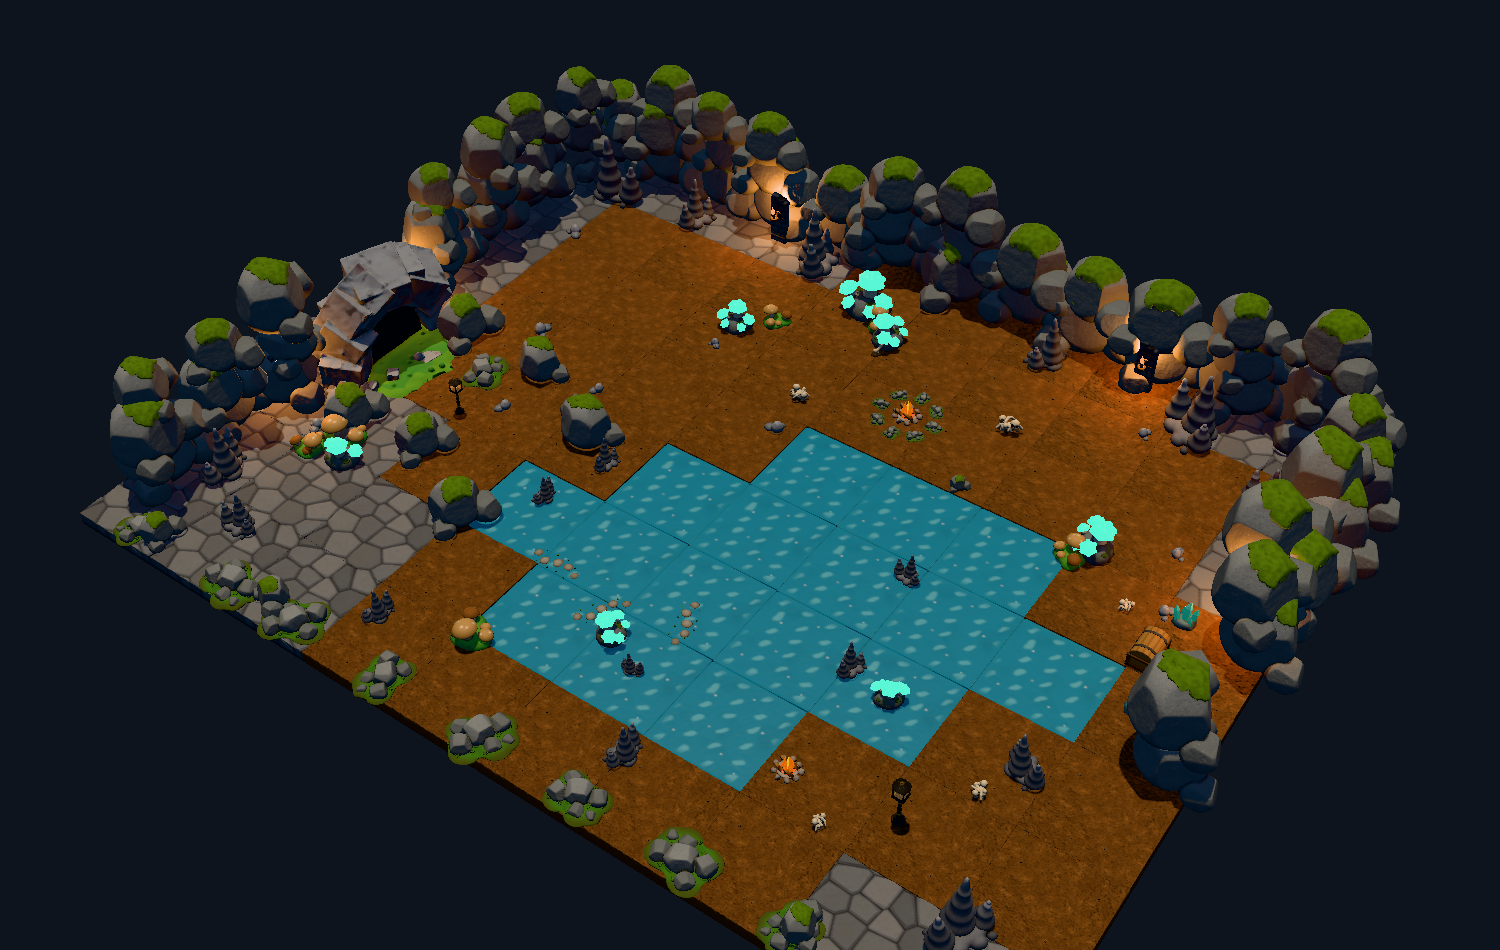
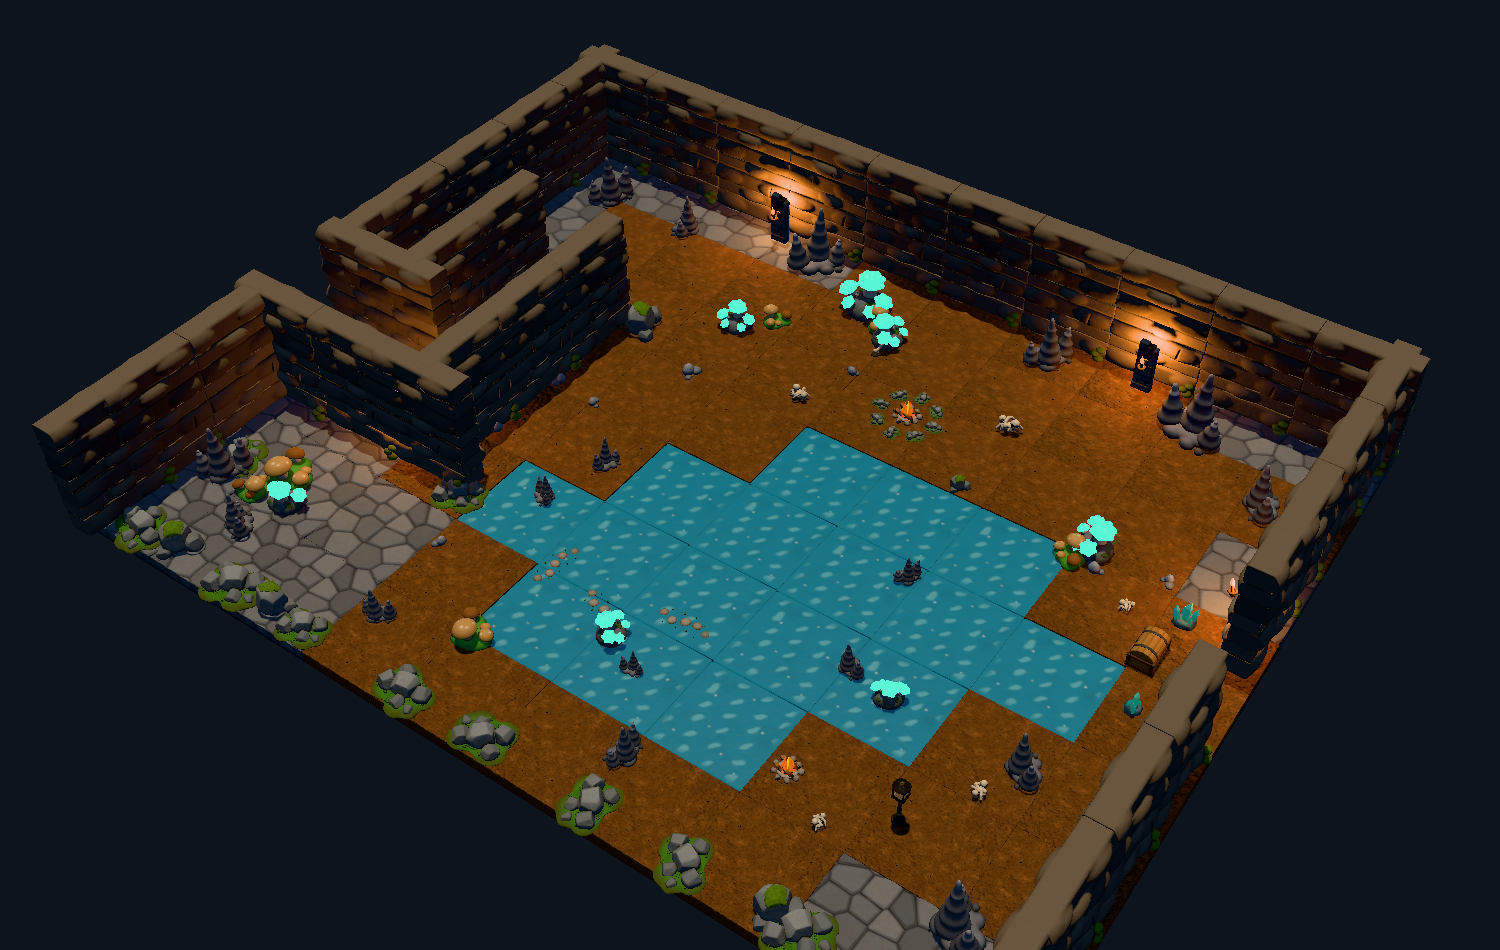
feat(maps): cave map at 7.0 with the new rock-wall piece

diff --git a/scenes/maps/cave.ts b/scenes/maps/cave.ts
@@ -82,89 +82,60 @@ export function places(): Place[] {
   { asset: 'dirt-ground', at: [5, 0, 7] },
   { asset: 'stone-ground', at: [7, 0, 7] },
   { asset: 'stone-ground', at: [9, 0, 7] },
-  { asset: 'boulder', at: [-9.03, 0, -7.66], yaw: 34, scale: 1.62 },
-  { asset: 'boulder', at: [-9.06, 0.85, -7.56], yaw: -36, scale: 1.37 },
-  { asset: 'boulder', at: [-7.41, 0, -7.69], yaw: -4, scale: 1.99 },
-  { asset: 'boulder', at: [-7.56, 0.85, -7.39], yaw: 22, scale: 1.62 },
-  { asset: 'boulder', at: [-7.46, 1.7, -7.56], yaw: -1, scale: 1.44 },
-  { asset: 'boulder', at: [-5.9, 0, -7.57], yaw: -11, scale: 1.55 },
-  { asset: 'boulder', at: [-5.81, 0.85, -7.65], yaw: -4, scale: 1.44 },
-  { asset: 'boulder', at: [-6.15, 1.7, -7.45], yaw: 22, scale: 1.25 },
-  { asset: 'boulder', at: [-4.36, 0, -7.53], yaw: -19, scale: 1.54 },
-  { asset: 'boulder', at: [-4.46, 0.85, -7.57], yaw: 1, scale: 1.65 },
-  { asset: 'boulder', at: [-4.54, 1.7, -7.35], yaw: 10, scale: 1.35 },
-  { asset: 'boulder', at: [-2.6, 0, -7.71], yaw: -26, scale: 1.69 },
-  { asset: 'boulder', at: [-2.63, 0.85, -7.46], yaw: -1, scale: 1.48 },
-  { asset: 'boulder', at: [-1.33, 0, -7.9], yaw: 15, scale: 1.72 },
-  { asset: 'boulder', at: [-1.34, 0.85, -7.48], yaw: 19, scale: 1.73 },
-  { asset: 'boulder', at: [-1.24, 1.7, -7.44], yaw: 26, scale: 1.39 },
-  { asset: 'boulder', at: [0.39, 0, -7.59], yaw: 37, scale: 1.75 },
-  { asset: 'boulder', at: [0.55, 0.85, -7.62], yaw: -18, scale: 1.51 },
-  { asset: 'boulder', at: [0.28, 1.7, -7.68], yaw: -16, scale: 1.56 },
-  { asset: 'boulder', at: [2.1, 0, -7.82], yaw: 1, scale: 1.91 },
-  { asset: 'boulder', at: [1.97, 0.85, -7.57], yaw: -12, scale: 1.73 },
-  { asset: 'boulder', at: [3.48, 0, -7.63], yaw: 16, scale: 1.94 },
-  { asset: 'boulder', at: [3.51, 0.85, -7.49], yaw: -13, scale: 1.57 },
-  { asset: 'boulder', at: [5.19, 0, -7.6], yaw: 29, scale: 1.69 },
-  { asset: 'boulder', at: [5.09, 0.85, -7.43], yaw: 7, scale: 1.74 },
-  { asset: 'boulder', at: [6.93, 0, -7.67], yaw: 28, scale: 1.87 },
-  { asset: 'boulder', at: [6.9, 0.85, -7.53], yaw: 40, scale: 1.38 },
-  { asset: 'boulder', at: [6.71, 1.7, -7.36], yaw: 25, scale: 1.3 },
-  { asset: 'boulder', at: [8.58, 0, -7.89], yaw: 31, scale: 1.99 },
-  { asset: 'boulder', at: [8.59, 0.85, -7.6], yaw: 34, scale: 1.47 },
-  { asset: 'boulder', at: [8.42, 1.7, -7.55], yaw: -25, scale: 1.52 },
-  { asset: 'boulder', at: [-9.8, 0, -6.75], yaw: 111, scale: 1.51 },
-  { asset: 'boulder', at: [-9.4, 0.85, -6.6], yaw: 129, scale: 1.39 },
-  { asset: 'boulder', at: [-9.33, 1.7, -6.6], yaw: 83, scale: 1.29 },
-  { asset: 'boulder', at: [-9.78, 0, -4.93], yaw: 69, scale: 1.77 },
-  { asset: 'boulder', at: [-9.48, 0.85, -4.9], yaw: 110, scale: 1.57 },
-  { asset: 'boulder', at: [-9.5, 1.7, -4.84], yaw: 57, scale: 1.42 },
-  { asset: 'boulder', at: [-9.74, 0, -3.26], yaw: 80, scale: 1.79 },
-  { asset: 'boulder', at: [-9.37, 0.85, -3.49], yaw: 77, scale: 1.67 },
-  { asset: 'boulder', at: [-9.43, 1.7, -3.59], yaw: 113, scale: 1.54 },
-  { asset: 'boulder', at: [-9.56, 0, -1.69], yaw: 93, scale: 1.78 },
-  { asset: 'boulder', at: [-9.47, 0.85, -1.62], yaw: 113, scale: 1.49 },
-  { asset: 'boulder', at: [-9.42, 1.7, -1.79], yaw: 55, scale: 1.21 },
-  { asset: 'boulder', at: [-9.44, 0, 2.97], yaw: 124, scale: 1.76 },
-  { asset: 'boulder', at: [-9.15, 0.85, 2.9], yaw: 84, scale: 1.35 },
-  { asset: 'boulder', at: [-9.45, 1.7, 2.85], yaw: 126, scale: 1.67 },
-  { asset: 'boulder', at: [-9.67, 0, 4.41], yaw: 93, scale: 1.57 },
-  { asset: 'boulder', at: [-9.28, 0.85, 4.77], yaw: 85, scale: 1.44 },
-  { asset: 'boulder', at: [-9.2, 1.7, 4.58], yaw: 51, scale: 1.23 },
-  { asset: 'boulder', at: [-9.5, 0, 6.12], yaw: 82, scale: 1.76 },
-  { asset: 'boulder', at: [-9.21, 0.85, 6.39], yaw: 100, scale: 1.63 },
-  { asset: 'boulder', at: [-9.55, 1.7, 6.08], yaw: 125, scale: 1.25 },
-  { asset: 'boulder', at: [9.72, 0, -6.52], yaw: 109, scale: 1.79 },
-  { asset: 'boulder', at: [9.41, 0.85, -6.71], yaw: 54, scale: 1.43 },
-  { asset: 'boulder', at: [9.62, 0, -5.05], yaw: 119, scale: 1.95 },
-  { asset: 'boulder', at: [9.38, 0.85, -5.2], yaw: 83, scale: 1.76 },
-  { asset: 'boulder', at: [9.76, 0, -3.29], yaw: 73, scale: 1.92 },
-  { asset: 'boulder', at: [9.15, 0.85, -3.21], yaw: 69, scale: 1.84 },
-  { asset: 'boulder', at: [9.75, 0, -1.83], yaw: 102, scale: 1.76 },
-  { asset: 'boulder', at: [9.49, 0.85, -1.81], yaw: 71, scale: 1.71 },
-  { asset: 'boulder', at: [9.55, 0, 1.36], yaw: 107, scale: 1.63 },
-  { asset: 'boulder', at: [9.31, 0.85, 1.25], yaw: 108, scale: 1.77 },
-  { asset: 'cave-mouth', at: [-8.6, 0, 1], yaw: 90, scale: 0.7 },
-  { asset: 'boulder', at: [-7.5, 0, -0.3], yaw: 75, scale: 1.1980484947329386 },
-  { asset: 'boulder', at: [-5.5, 0, -0.3], yaw: 145, scale: 1.052375058387406 },
-  { asset: 'boulder', at: [-3.5, 0, 0.7], yaw: 159, scale: 1.2289096700726077 },
-  { asset: 'boulder', at: [-7.5, 0, 3.1], yaw: 84, scale: 1.1254031813004985 },
-  { asset: 'boulder', at: [-5.8, 0, 2.9], yaw: 61, scale: 1.0288668071618303 },
-  { asset: 'boulder', at: [-3.9, 0, 3.9], yaw: 56, scale: 1.1338962153764442 },
-  { asset: 'rock-cluster', at: [-8.2, 0, 2.6], yaw: 30 },
-  { asset: 'rock-cluster', at: [-6.4, 0, 0.5], yaw: 120 },
-  { asset: 'rock-cluster', at: [-8.66, 0, 7.6], yaw: 250, scale: 0.9205809348262847 },
-  { asset: 'rock-cluster', at: [-6.2, 0, 7.6], yaw: 351, scale: 1.1121186759090051 },
-  { asset: 'rock-cluster', at: [-4.58, 0, 7.6], yaw: 219, scale: 1.159982987260446 },
-  { asset: 'rock-cluster', at: [-2.39, 0, 7.6], yaw: 283, scale: 1.007555209309794 },
-  { asset: 'rock-cluster', at: [-0.19, 0, 7.6], yaw: 55, scale: 1.1415613694116473 },
-  { asset: 'rock-cluster', at: [1.92, 0, 7.6], yaw: 6, scale: 1.0248554696096108 },
-  { asset: 'rock-cluster', at: [4.04, 0, 7.6], yaw: 176, scale: 1.151267913216725 },
-  { asset: 'rock-cluster', at: [6.09, 0, 7.6], yaw: 254, scale: 0.9233524861978367 },
-  { asset: 'rock-cluster', at: [8.34, 0, 7.6], yaw: 171, scale: 1.0795057970099151 },
-  { asset: 'boulder', at: [-8.18, 0, 7.5], yaw: 85, scale: 0.7 },
-  { asset: 'boulder', at: [-5.24, 0, 7.5], yaw: 327, scale: 0.7 },
-  { asset: 'boulder', at: [6.22, 0, 7.5], yaw: 105, scale: 0.7 },
+  { asset: 'rock-wall', at: [-9, 0, -7.55] },
+  { asset: 'rock-wall', at: [-7, 0, -7.55] },
+  { asset: 'rock-wall', at: [-5, 0, -7.55] },
+  { asset: 'rock-wall', at: [-3, 0, -7.55] },
+  { asset: 'rock-wall', at: [-1, 0, -7.55] },
+  { asset: 'rock-wall', at: [1, 0, -7.55] },
+  { asset: 'rock-wall', at: [3, 0, -7.55] },
+  { asset: 'rock-wall', at: [5, 0, -7.55] },
+  { asset: 'rock-wall', at: [7, 0, -7.55] },
+  { asset: 'rock-wall', at: [9, 0, -7.55] },
+  { asset: 'rock-wall', at: [-9.55, 0, -7], yaw: 90 },
+  { asset: 'rock-wall', at: [-9.55, 0, -5], yaw: 90 },
+  { asset: 'rock-wall', at: [-9.55, 0, -3], yaw: 90 },
+  { asset: 'rock-wall', at: [-9.55, 0, -1], yaw: 90 },
+  { asset: 'rock-wall', at: [-9.55, 0, 0], yaw: 90 },
+  { asset: 'rock-wall', at: [-9.55, 0, 4.1], yaw: 90 },
+  { asset: 'rock-wall', at: [-9.55, 0, 6.1], yaw: 90 },
+  { asset: 'rock-wall', at: [-9.55, 0, 7.3], yaw: 90 },
+  { asset: 'rock-wall', at: [9.55, 0, -7], yaw: 90 },
+  { asset: 'rock-wall', at: [9.55, 0, -5], yaw: 90 },
+  { asset: 'rock-wall', at: [9.55, 0, -3], yaw: 90 },
+  { asset: 'rock-wall', at: [9.55, 0, -1.9], yaw: 90 },
+  { asset: 'rock-wall', at: [9.55, 0, 2], yaw: 90 },
+  { asset: 'rock-wall', at: [9.55, 0, 4], yaw: 90 },
+  { asset: 'rock-wall', at: [9.55, 0, 6], yaw: 90 },
+  { asset: 'rock-wall', at: [9.55, 0, 7.2], yaw: 90 },
+  { asset: 'rock-wall', at: [-9, 0, 0.9] },
+  { asset: 'rock-wall', at: [-7.9, 0, 0.9] },
+  { asset: 'rock-wall', at: [-9, 0, 3.1] },
+  { asset: 'rock-wall', at: [-7, 0, 3.1] },
+  { asset: 'rock-wall', at: [-5.3, 0, 3.1] },
+  { asset: 'rock-wall', at: [-7.7, 0, -0.1], yaw: 90 },
+  { asset: 'rock-wall', at: [-7.7, 0, -1.9], yaw: 90 },
+  { asset: 'rock-wall', at: [-5.3, 0, 2.1], yaw: 90 },
+  { asset: 'rock-wall', at: [-5.3, 0, 0.2], yaw: 90 },
+  { asset: 'rock-wall', at: [-5.3, 0, -1.7], yaw: 90 },
+  { asset: 'boulder', at: [-6.6, 0, -3.4], yaw: 40, scale: 0.9 },
+  { asset: 'boulder', at: [-4.6, 0, -2.6], yaw: 100, scale: 0.8 },
+  { asset: 'rock-cluster', at: [-4.4, 0, 3.5], yaw: 30 },
+  { asset: 'rock-cluster', at: [-8.6, 0, 5.2], yaw: 120 },
+  { asset: 'lantern', at: [-8.2, 0, 2], scale: 0.6 },
+  { asset: 'torch-sconce', at: [-6.4, 0, 2.75], yaw: 180 },
+  { asset: 'rock-cluster', at: [-8.66, 0, 7.6], yaw: 329, scale: 1.0837474999018013 },
+  { asset: 'rock-cluster', at: [-6.14, 0, 7.6], yaw: 18, scale: 1.1567350670462475 },
+  { asset: 'rock-cluster', at: [-4.38, 0, 7.6], yaw: 19, scale: 0.9206352108623833 },
+  { asset: 'rock-cluster', at: [-1.91, 0, 7.6], yaw: 350, scale: 1.0593752360204234 },
+  { asset: 'rock-cluster', at: [-0.13, 0, 7.6], yaw: 197, scale: 1.081510798819363 },
+  { asset: 'rock-cluster', at: [2.17, 0, 7.6], yaw: 281, scale: 1.025423211674206 },
+  { asset: 'rock-cluster', at: [4.08, 0, 7.6], yaw: 307, scale: 1.0087391740176828 },
+  { asset: 'rock-cluster', at: [6.19, 0, 7.6], yaw: 33, scale: 1.124741160054691 },
+  { asset: 'rock-cluster', at: [8.5, 0, 7.6], yaw: 129, scale: 0.9536547205410898 },
+  { asset: 'boulder', at: [-7.71, 0, 7.5], yaw: 44, scale: 0.7 },
+  { asset: 'boulder', at: [-5.23, 0, 7.5], yaw: 164, scale: 0.7 },
+  { asset: 'boulder', at: [5.76, 0, 7.5], yaw: 41, scale: 0.7 },
   { asset: 'rock-cluster', at: [2.12, 0, -3.4], scale: 0.35 },
   { asset: 'rock-cluster', at: [1.94, 0, -2.96], yaw: 45, scale: 0.35 },
   { asset: 'rock-cluster', at: [1.5, 0, -2.78], yaw: 90, scale: 0.35 },
@@ -190,9 +161,9 @@ export function places(): Place[] {
   { asset: 'glowing-mushroom', at: [-1, 0, -5.9], scale: 3 },
   { asset: 'mushroom', at: [-0.4, 0, -5.6], yaw: 47, scale: 2 },
   { asset: 'glowing-mushroom', at: [-0.1, 0, -5.2], yaw: 94, scale: 2.2 },
-  { asset: 'mushroom', at: [-7.4, 0, 3.5], yaw: 141, scale: 2.6 },
-  { asset: 'glowing-mushroom', at: [-6.9, 0, 4.1], yaw: 188, scale: 2 },
-  { asset: 'mushroom', at: [-7.7, 0, 4.2], yaw: 235, scale: 1.8 },
+  { asset: 'mushroom', at: [-7.4, 0, 5], yaw: 141, scale: 2.6 },
+  { asset: 'glowing-mushroom', at: [-6.9, 0, 5.6], yaw: 188, scale: 2 },
+  { asset: 'mushroom', at: [-7.7, 0, 5.7], yaw: 235, scale: 1.8 },
   { asset: 'glowing-mushroom', at: [6.3, 0, -2.2], yaw: 282, scale: 2.4 },
   { asset: 'mushroom', at: [6, 0, -1.8], yaw: 329, scale: 1.8 },
   { asset: 'glowing-mushroom', at: [-3, 0, -3.8], yaw: 376, scale: 2 },
@@ -200,41 +171,36 @@ export function places(): Place[] {
   { asset: 'glowing-mushroom', at: [0.2, 0, 4.6], yaw: 470, scale: 1.8 },
   { asset: 'mushroom', at: [-1.8, 0, 6], yaw: 517, scale: 2.2 },
   { asset: 'glowing-mushroom', at: [5, 0, 3], yaw: 564, scale: 1.6 },
-  { asset: 'stalagmite', at: [-8.2, 0, -6.2], yaw: 157, scale: 1.3 },
-  { asset: 'stalagmite', at: [-6, 0, -6.4], yaw: 66, scale: 0.9 },
-  { asset: 'stalagmite', at: [-2.8, 0, -6.6], yaw: 90, scale: 1.2 },
-  { asset: 'stalagmite', at: [3, 0, -6.6], yaw: 246, scale: 1 },
-  { asset: 'stalagmite', at: [6.4, 0, -6.2], yaw: 306, scale: 1.3 },
-  { asset: 'stalagmite', at: [8.4, 0, -5], yaw: 308, scale: 0.9 },
-  { asset: 'stalagmite', at: [-8.6, 0, 5.6], yaw: 275, scale: 1 },
-  { asset: 'stalagmite', at: [-7.2, 0, 6.5], yaw: 348, scale: 0.7 },
-  { asset: 'stalagmite', at: [8.2, 0, 6.2], yaw: 50, scale: 1.1 },
-  { asset: 'stalagmite', at: [-3.5, 0, 6.6], yaw: 247, scale: 0.6 },
-  { asset: 'stalagmite', at: [2, 0, 6.5], yaw: 257, scale: 0.7 },
-  { asset: 'stalagmite', at: [7.6, 0, 3], yaw: 132, scale: 0.8 },
-  { asset: 'stalagmite', at: [-2.6, 0, 1.2], yaw: 73, scale: 0.55 },
-  { asset: 'stalagmite', at: [-3, 0, 2.6], yaw: 263, scale: 0.5 },
-  { asset: 'stalagmite', at: [3.8, 0, 0.4], yaw: 337, scale: 0.5 },
-  { asset: 'stalagmite', at: [4.1, 0, 2.8], yaw: 63, scale: 0.55 },
-  { asset: 'stalagmite', at: [1, 0, 5], yaw: 175, scale: 0.4 },
-  { asset: 'stepping-stone', at: [-1.7, -0.03, 3.8], yaw: 87, scale: 0.6 },
-  { asset: 'stepping-stone', at: [-0.3, -0.03, 4.2], yaw: 146, scale: 0.6 },
-  { asset: 'stepping-stone', at: [1.1, -0.03, 3.6], yaw: 16, scale: 0.6 },
-  { asset: 'river-rock', at: [-3.01, 0, -3], yaw: 346, scale: 0.45694793849252163 },
-  { asset: 'river-rock', at: [-0.42, 0, -1.53], yaw: 215, scale: 0.6853204580023885 },
-  { asset: 'river-rock', at: [-5.32, 0, 1.09], yaw: 262, scale: 0.6063688972033561 },
-  { asset: 'river-rock', at: [-7.97, 0, -4.4], yaw: 335, scale: 0.669219097495079 },
-  { asset: 'river-rock', at: [-6.29, 0, -1.21], yaw: 99, scale: 0.7032646126113832 },
-  { asset: 'river-rock', at: [5.67, 0, -5.6], yaw: 94, scale: 0.5362018374726176 },
-  { asset: 'river-rock', at: [7.61, 0, -2.93], yaw: 113, scale: 0.5614555452950298 },
-  { asset: 'river-rock', at: [-7.8, 0, 0.97], yaw: 229, scale: 0.591444268450141 },
-  { asset: 'river-rock', at: [8.03, 0, -1.49], yaw: 72, scale: 0.5826230230741203 },
-  { asset: 'river-rock', at: [-8.03, 0, 3.69], yaw: 312, scale: 0.5932408774271607 },
-  { asset: 'river-rock', at: [-3.27, 0, -4.08], yaw: 345, scale: 0.7097508640028536 },
-  { asset: 'river-rock', at: [-4.1, 0, -0.42], yaw: 259, scale: 0.5528097353875637 },
-  { asset: 'torch-sconce', at: [-9.2, 0, -0.2], yaw: 90 },
-  { asset: 'torch-sconce', at: [-9.2, 0, 3.4], yaw: 90 },
-  { asset: 'lantern', at: [-6, 0, 1.7], scale: 0.6 },
+  { asset: 'stalagmite', at: [-8.2, 0, -6], yaw: 224, scale: 1 },
+  { asset: 'stalagmite', at: [-6, 0, -6], yaw: 278, scale: 0.8 },
+  { asset: 'stalagmite', at: [-2.8, 0, -6.6], yaw: 30, scale: 1.2 },
+  { asset: 'stalagmite', at: [3, 0, -6.6], yaw: 218, scale: 1 },
+  { asset: 'stalagmite', at: [6.4, 0, -6.2], yaw: 333, scale: 1.3 },
+  { asset: 'stalagmite', at: [8.4, 0, -5], yaw: 96, scale: 0.9 },
+  { asset: 'stalagmite', at: [-8.6, 0, 5.6], yaw: 213, scale: 1 },
+  { asset: 'stalagmite', at: [-7.2, 0, 6.5], yaw: 127, scale: 0.7 },
+  { asset: 'stalagmite', at: [8.2, 0, 6.2], yaw: 113, scale: 1.1 },
+  { asset: 'stalagmite', at: [-3.5, 0, 6.6], yaw: 184, scale: 0.6 },
+  { asset: 'stalagmite', at: [2, 0, 6.5], yaw: 256, scale: 0.7 },
+  { asset: 'stalagmite', at: [7.6, 0, 3], yaw: 112, scale: 0.8 },
+  { asset: 'stalagmite', at: [-2.6, 0, 1.2], yaw: 57, scale: 0.55 },
+  { asset: 'stalagmite', at: [-3, 0, 2.6], yaw: 315, scale: 0.5 },
+  { asset: 'stalagmite', at: [3.8, 0, 0.4], yaw: 225, scale: 0.5 },
+  { asset: 'stalagmite', at: [4.1, 0, 2.8], yaw: 137, scale: 0.55 },
+  { asset: 'stalagmite', at: [1, 0, 5], yaw: 359, scale: 0.4 },
+  { asset: 'stepping-stone', at: [-1.7, -0.03, 3.8], yaw: 174, scale: 0.6 },
+  { asset: 'stepping-stone', at: [-0.3, -0.03, 4.2], yaw: 64, scale: 0.6 },
+  { asset: 'stepping-stone', at: [1.1, -0.03, 3.6], yaw: 91, scale: 0.6 },
+  { asset: 'river-rock', at: [-0.12, 0, -3.88], yaw: 156, scale: 0.5035692944191397 },
+  { asset: 'river-rock', at: [-8.47, 0, 1.81], yaw: 274, scale: 0.4934054112061858 },
+  { asset: 'river-rock', at: [6.51, 0, -1.72], yaw: 146, scale: 0.6415104175452143 },
+  { asset: 'river-rock', at: [7.77, 0, -2.23], yaw: 319, scale: 0.5121382751036435 },
+  { asset: 'river-rock', at: [-3.79, 0, 4.65], yaw: 257, scale: 0.5126380167435854 },
+  { asset: 'river-rock', at: [-7.61, 0, -2.57], yaw: 297, scale: 0.6780016175005585 },
+  { asset: 'river-rock', at: [-4.92, 0, -0.2], yaw: 272, scale: 0.5751998787280173 },
+  { asset: 'river-rock', at: [-2.89, 0, -1.93], yaw: 74, scale: 0.7112453345675022 },
+  { asset: 'river-rock', at: [-5.02, 0, 1.67], yaw: 252, scale: 0.5821119296830147 },
+  { asset: 'river-rock', at: [-3.93, 0, -0.04], yaw: 121, scale: 0.48015079074539246 },
   { asset: 'torch-sconce', at: [-4, 0, -6.9] },
   { asset: 'torch-sconce', at: [5, 0, -6.9] },
   ];

diff --git a/assets/rock-wall.ts b/assets/rock-wall.ts
@@ -1,0 +1,100 @@
+import { defineAsset, noise, rgb, sdf, type Sdf } from '../src/index.js';
+
+/**
+ * Design note - rock wall (nature/terrain/rock-wall).
+ * Role: modular cave and canyon wall segment, tiles side by side on a 2 m grid.
+ * Size: 2.0 m wide (x, flush at x = +-1), 0.8 m thick, 2.6 m tall, on y = 0, front toward +Z.
+ * One idea: chunky stacked sediment layers, each a rounded slab with bulges that overhang a little.
+ * Shape language: square and heavy, with round bulges and soft bevels; a few dark cracks.
+ * Palette: rock #7d7468, dark layers #6a6258, light layers #8b8274, moss #5f7a3a. Slot 'rock'
+ *   recolors the stone: grey (default), red, ice.
+ * Materials: stone (roughness 0.92, bump grit), moss (roughness 0.9, not in the slot).
+ * Chaining: every layer ends are cut flat at x = +-1 and have the same depth, so neighbors meet.
+ */
+
+const R = (i: number, j: number): number => noise.random(i, j, 3.3);
+const W = 2.0;
+const H = 2.6;
+const LAYERS = 7;
+
+function rockShape(): { shape: Sdf; bounds: readonly number[] } {
+  const bounds: number[] = [0];
+  const raw = Array.from({ length: LAYERS }, (_, i) => 0.8 + 0.5 * R(i, 1));
+  const sum = raw.reduce((a, v) => a + v, 0);
+  let y = 0;
+  const parts: Sdf[] = [];
+  raw.forEach((r, i) => {
+    const h = (r / sum) * H;
+    const depth = 0.5 + 0.08 * R(i, 2); // slab depth 0.5..0.58, bulges reach 0.8 in all
+    const zc = (R(i, 3) - 0.5) * 0.06;
+    const slab = sdf.box([W + 0.2, h - 0.01, depth], 0.06).at(0, y + h / 2, zc);
+    // Bulges on the front and back faces, kept inside |x| < 0.8.
+    let s: Sdf = slab;
+    for (let j = 0; j < 3; j++) {
+      const bx = -0.65 + 0.65 * j + (R(i, 10 + j) - 0.5) * 0.3;
+      const bz = (j + i) % 2 === 0 ? 1 : -1;
+      const rx = 0.28 + 0.14 * R(i, 20 + j);
+      const ry = h * (0.38 + 0.1 * R(i, 30 + j));
+      const rz = 0.1 + 0.04 * R(i, 40 + j);
+      s = s.smoothUnion(0.07, sdf.ellipsoid([rx, ry, rz]).at(bx, y + h * 0.5, zc + bz * (depth / 2 - 0.01)));
+    }
+    parts.push(s);
+    y += h;
+    bounds.push(y);
+  });
+  let shape = sdf.union(...parts);
+  // Cracks: thin slanted slots cut into the front and back.
+  const crack = (x: number, y0: number, z: number, len: number, rot: number): Sdf =>
+    sdf.box([0.04, len * 1.4, 0.3], 0.012).rotateZ(rot).at(x, y0, z);
+  shape = shape.subtract(
+    crack(-0.35, 1.6, 0.5, 0.7, 14),
+    crack(0.5, 0.8, 0.5, 0.55, -10),
+    crack(0.15, 2.1, 0.5, 0.45, 20),
+    crack(-0.5, 1.0, -0.5, 0.6, -12),
+    crack(0.4, 1.9, -0.5, 0.6, 8),
+  );
+  shape = shape.intersect(sdf.box([W, H, 0.8]).at(0, H / 2, 0));
+  return { shape, bounds };
+}
+
+const { shape: rockS, bounds } = rockShape();
+const mossS = sdf
+  .union(
+    sdf.ellipsoid([0.12, 0.07, 0.1]).at(0.88, 0.1, 0.4),
+    sdf.ellipsoid([0.09, 0.06, 0.08]).at(0.8, 0.2, 0.42),
+    sdf.ellipsoid([0.1, 0.05, 0.08]).at(0.9, 0.3, 0.38),
+  )
+  .intersect(sdf.box([W, 1, 1.2]).at(0, 0.5, 0));
+
+export default defineAsset({
+  name: 'rock-wall',
+  description:
+    'A 2 m wide, 0.8 m thick, 2.6 m tall layered rock wall segment: stacked sediment slabs with round bulges, cracks, and a moss tuft; chains side by side. Slot rock: grey, red, ice.',
+  detail: 0.02,
+  texture: { size: 1024 },
+  variants: { rock: { grey: '#7d7468', red: '#b5593a', ice: '#9fc6e0' } },
+  build(k) {
+    const base = k.tint('rock');
+    const dark = k.tint('rock', { color: '#6a6258', follow: 1 });
+    const light = k.tint('rock', { color: '#8b8274', follow: 1 });
+    let painted: Sdf = rockS.paint(base);
+    for (let i = 0; i < LAYERS; i++) {
+      const t = R(i, 5);
+      if (t >= 0.34 && t < 0.67) continue;
+      const lo = bounds[i] ?? 0;
+      const hi = bounds[i + 1] ?? H;
+      painted = painted.paintWhere(sdf.box([3, hi - lo - 0.02, 2]).at(0, (lo + hi) / 2, 0), t < 0.34 ? dark : light);
+    }
+    k.body('stone', painted, {
+      color: base,
+      roughness: 0.92,
+      metalness: 0,
+      detail: 0.03,
+      maxError: 0.006,
+      maxTriangles: 30000,
+      textureDensity: 2,
+      bump: (x, y, z) => 0.004 * noise.fbm(x * 12, y * 12, z * 12, 3, 17),
+    });
+    k.body('moss', mossS.paint(rgb('#5f7a3a')), { color: rgb('#5f7a3a'), roughness: 0.9, detail: 0.012 });
+  },
+});

diff --git a/docs/map-mockups/cave.md b/docs/map-mockups/cave.md
@@ -18,12 +18,11 @@ Zones: west winding tunnel (cave-mouth, boulders, lantern) into the north sand c
 central pool with stepping stones; south-east ledge camp; east treasure nook (chest, crystals).
 Boulder walls on north, west, east; the south edge stays open.
 
-Total placements: 235
+Total placements: 201
 
 - bone-pile: 5
-- boulder: 72
+- boulder: 6
 - campfire: 2
-- cave-mouth: 1
 - chest: 1
 - crystal-cluster: 2
 - dirt-ground: 44
@@ -31,10 +30,11 @@ Total placements: 235
 - lantern: 2
 - monster-bone: 1
 - mushroom: 6
-- river-rock: 12
+- river-rock: 10
 - rock-cluster: 19
+- rock-wall: 36
 - sea-water: 16
 - stalagmite: 17
 - stepping-stone: 3
 - stone-ground: 20
-- torch-sconce: 5
+- torch-sconce: 4
